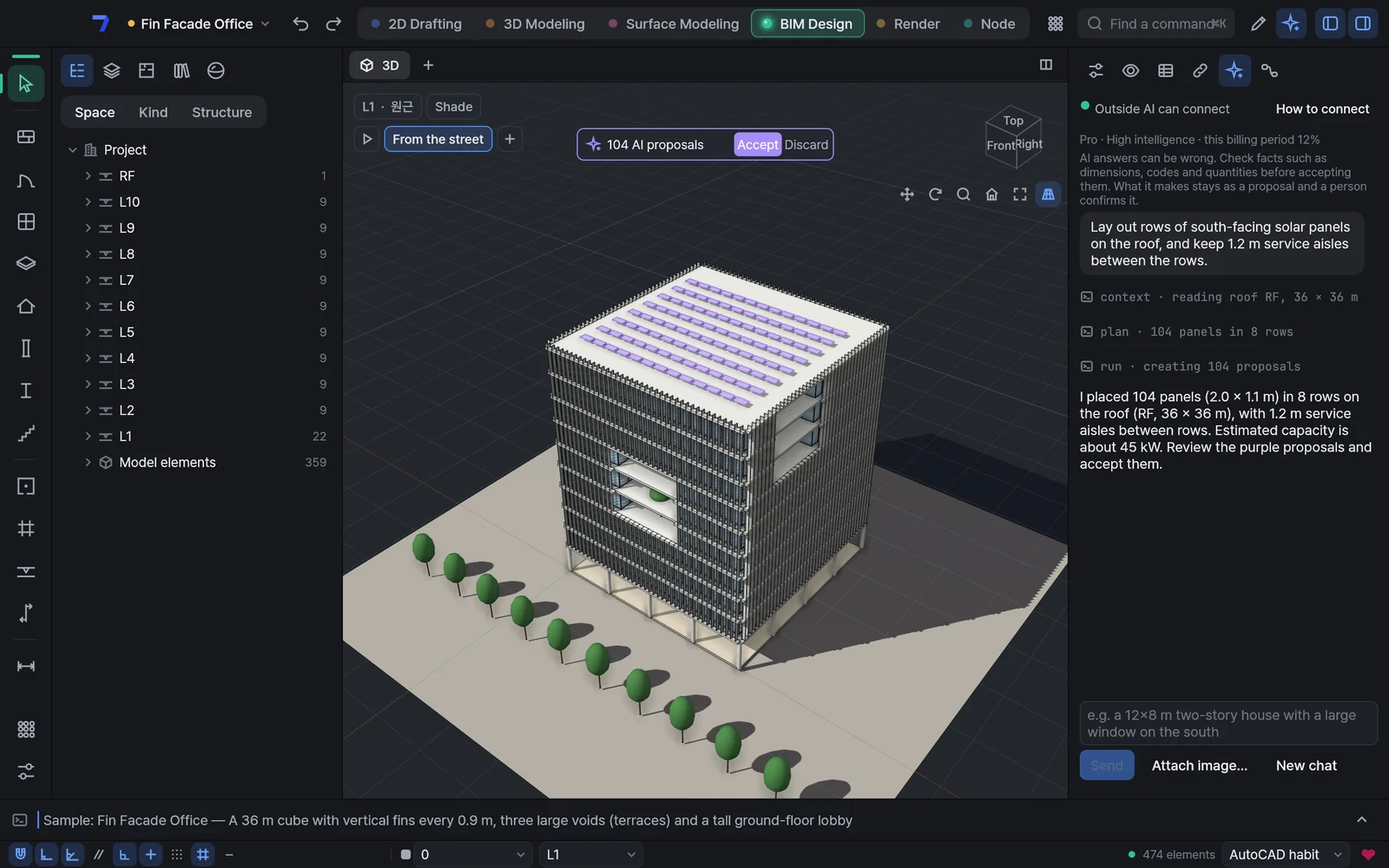
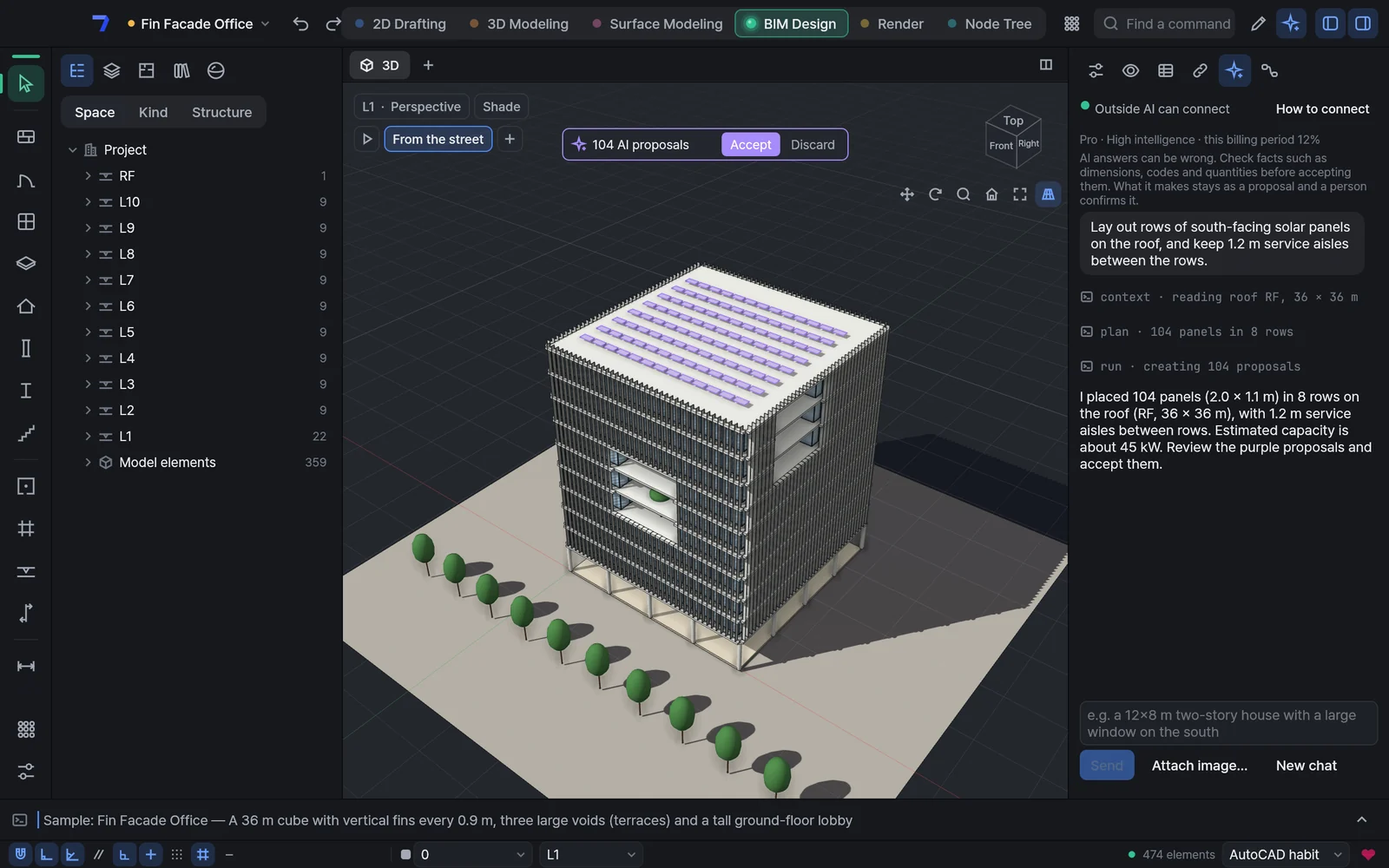
HyperSeven Office 서버 설정·홈페이지 (2026-11-11)

diff --git a/ja/cad.html b/ja/cad.html
@@ -47,7 +47,7 @@
 <main>
     <section class="phero cad">
       <div class="wrap">
-        <div class="ptitle"><img src="../assets/brand/icon-cad.svg" alt="" width="60" height="60" /><div><b>HyperSeven CAD</b><span>図面 · 3D · 曲面 · ノード · BIM</span></div><span class="tag dev"><span class="dot"></span>プレビュー 0.1.0</span></div>
+        <div class="ptitle"><img src="../assets/brand/icon-cad.svg" alt="" width="60" height="60" /><div><b>HyperSeven CAD</b><span>図面 · 3D · 曲面 · ノード · BIM</span></div><span class="tag dev"><span class="dot"></span>プレビュー 1.1.0</span></div>
         <h1>図面からBIMまで、<br />みんなのCADをひとつ<span class="blue">。</span></h1>
         <p class="lead">DWG・SKP・3DM・IFCのファイルを行き来していた作業が、ひとつのモデルでつながります。図面からマス・曲面・ノード・BIMまで、誰でも無料で。</p>
         <div class="get">
@@ -55,16 +55,16 @@
             <div class="get-win get-mac" data-os="mac">
               <a class="btn os" href="https://github.com/dongyoun/hyperseven-cad/releases/download/v0.1.0/HyperSeven-CAD-0.1.0-arm64.dmg">
                 <svg viewBox="0 0 24 24" fill="none" stroke="currentColor" stroke-width="2" stroke-linecap="round" stroke-linejoin="round" aria-hidden="true"><path d="M12 3v12" /><path d="m7 10 5 5 5-5" /><path d="M4 19h16" /></svg>
-                <span>Mac用をダウンロード<small>0.1.0 プレビュー · 73MB</small></span>
+                <span>Mac用をダウンロード<small>0.1.0 プレビュー · 77MB</small></span>
               </a>
               <a class="get-exe" href="https://github.com/dongyoun/hyperseven-cad/releases/download/v0.1.0/HyperSeven-CAD-0.1.0-x64.dmg">Intel Mac用</a>
             </div>
             <div class="get-win" data-os="win">
-              <span class="btn os disabled" aria-disabled="true">
+              <span class="btn os disabled" aria-disabled="true" data-store="https://apps.microsoft.com/detail/9N3V14L2F5MW">
                 <svg viewBox="0 0 24 24" fill="none" stroke="currentColor" stroke-width="2" stroke-linecap="round" stroke-linejoin="round" aria-hidden="true"><path d="M5 8h14l-1.2 11.2a1 1 0 0 1-1 .8H7.2a1 1 0 0 1-1-.8z" /><path d="M9 8V6.5a3 3 0 0 1 6 0V8" /></svg>
                 <span>Microsoft Store<small>審査準備中</small></span>
               </span>
-              <a class="get-exe" href="https://github.com/dongyoun/hyperseven-cad/releases/download/v0.1.0/HyperSeven-CAD-0.1.0-win-x64.zip">.zipでダウンロード · 85MB</a>
+              <a class="get-exe" href="https://github.com/dongyoun/hyperseven-cad/releases/download/v1.1.0/HyperSeven-CAD-1.1.0-win-x64.zip">.zipでダウンロード · 92MB</a>
               <small class="get-exe-note">展開してすぐ使えます。初回は「詳細情報 → 実行」</small>
             </div>
           </div>
@@ -115,15 +115,15 @@
           <h2>図面はモデルから生まれる</h2>
           <p>サンプルで見る、3D・図面シート・コマンド検索。スタート画面の「サンプルを見る」から開けます。</p>
         </div>
-        <div class="window dark"><div class="bar"><i></i><i></i><i></i></div><img src="../assets/shots/cad-3d.webp" alt="HyperSeven CADの3D画面 — 基壇の上に3 m間隔の列柱と薄い屋根スラブの美術館サンプル、左に階の一覧、右にプロパティ" loading="lazy" width="1600" height="1012" /></div>
+        <div class="window dark"><div class="bar"><i></i><i></i><i></i></div><img src="../assets/shots/cad-museum-en.webp" alt="列柱の美術館 — 基壇の上の列柱と薄い屋根スラブ、水盤と木々、日差しと影" loading="lazy" width="1600" height="1000" /></div>
         <div class="gallery" style="margin-top: 28px">
           <figure>
-            <div class="window dark"><div class="bar"><i></i><i></i><i></i></div><img src="../assets/shots/cad-plan.webp" alt="美術館サンプルのA1シート — 1階平面図・断面図・南と東の立面図" loading="lazy" width="1600" height="1012" /></div>
-            <figcaption>A1シート1枚に平面・断面・立面。モデルを直すと図面がついてきます。</figcaption>
+            <div class="window dark"><div class="bar"><i></i><i></i><i></i></div><img src="../assets/shots/cad-automation-en.webp" alt="設計自動化カード — 敷地からマス案3つ、チェック、BIM、図面セットまですべて緑で完了した画面" loading="lazy" width="1600" height="1000" /></div>
+            <figcaption>設計自動化カード：敷地の線ひとつから、マス案3つ、チェック、BIM、図面セットまで続けて実行します。</figcaption>
           </figure>
           <figure>
-            <div class="window dark"><div class="bar"><i></i><i></i><i></i></div><img src="../assets/shots/cad-palette.webp" alt="コマンド検索 — 壁に関するコマンドが英語名とショートカット付きで並ぶ" loading="lazy" width="1600" height="1012" /></div>
-            <figcaption>コマンド検索 <kbd>⌘K</kbd>。韓国語でも英語のコマンド名でも探せます。</figcaption>
+            <div class="window dark"><div class="bar"><i></i><i></i><i></i></div><img src="../assets/shots/cad-sheets-en.webp" alt="列柱の美術館のA1シート — 平面・断面・南と東の立面と図枠" loading="lazy" width="1600" height="1000" /></div>
+            <figcaption>図面セット：モデルから平面・断面・立面と図枠がすぐ出て、モデルを直すと図面もついてきます。</figcaption>
           </figure>
         </div>
         <div class="gallery" style="margin-top: 28px">
@@ -136,7 +136,7 @@
             <figcaption>ファサード断面詳細1:20。レイヤー・ハッチ・引出線・寸法。</figcaption>
           </figure>
           <figure>
-            <div class="window dark"><div class="bar"><i></i><i></i><i></i></div><img src="../assets/shots/cad-house.webp" alt="白いコンクリート壁とガラスで囲んだ中庭、薄い庇の平屋" loading="lazy" width="1600" height="1012" /></div>
+            <div class="window dark"><div class="bar"><i></i><i></i><i></i></div><img src="../assets/shots/cad-courtyard-en.webp" alt="白い壁とガラスで囲んだ中庭の住宅、芝生と木々" loading="lazy" width="1600" height="1000" /></div>
             <figcaption>中庭のある家。壁を動かすと床と屋根がついてきます。</figcaption>
           </figure>
           <figure>
@@ -170,15 +170,22 @@
     </section>
 
     <section class="sec" id="ai-cad">
-      <div class="wrap duo">
+      <div class="wrap">
         <div class="sec-head">
           <div class="kicker blue">新しい時代のCAD</div>
           <h2>AIと話が通じる、<br />新しいCAD</h2>
+          <p>描いて、建てて、言葉で直す。作図ツールはすべて無料、AIは提案で手伝います。</p>
         </div>
-        <div class="aicad">
-          <p>HyperSeven CADは、はじめからAIと一緒に使うためにつくっています。図面とモデルが壁・ドア・階といった構造をもつデータなので、AIは言葉で頼んだことを正確に理解して実行します。繰り返しの作業はAIがツールにまとめ、変更はまず見せてから人が確定します。</p>
-          <ul class="aicad-points"><li>言葉で頼む</li><li>MCPでAIエージェントとつなぐ</li><li>Pythonでツールをつくる</li></ul>
-        </div>
+        <figure class="shot-lead">
+          <div class="window dark shot-ex"><div class="bar"><i></i><i></i><i></i></div><img src="../assets/shots/cad-ai-en.webp" alt="言葉で指示すると、AIがフィン・ファサードのオフィスの屋上に太陽光パネル104枚を紫の提案として配置した場面。右のAIパネルに指示と結果の説明" loading="lazy" width="1600" height="1000" /><span class="shot-tag">サンプル場面</span></div>
+          <figcaption>言葉で指示するとAIがモデルを直します。結果は紫の提案として残り、人が承認します。</figcaption>
+        </figure>
+      </div>
+      <div class="wrap split">
+          <div class="card"><div class="kicker blue">新機能</div><h3>設計自動化カード</h3><p>敷地の線ひとつから、法規条件、マス案3つ、チェック、BIM、図面セットまで続けて実行します。AIなしで動くので無料、自分のテンプレートとして保存できます。</p></div>
+          <div class="card"><div class="kicker blue">新機能</div><h3>AIと一緒に設計</h3><p>文字・音声・赤ペンで指示すると、結果は紫の提案として残り、人が承認します。無料版でもまずプレビュー場面で確かめられます。</p></div>
+          <div class="card"><div class="kicker blue">新機能</div><h3>AIレンダー</h3><p>いまのビューの形のまま、写真のような画像をつくります。ComfyUI（このコンピューター、無料）、Stability AI・OpenAI（自分のキー）、カスタムAPIから選べます。</p></div>
+          <div class="card"><div class="kicker blue">新機能</div><h3>ノードツリー</h3><p>AIが組んだノードツリーがすぐ開き、人が続けて直せます。繰り返す形はノードとして残し、また使えます。</p></div>
       </div>
     </section>
 
@@ -202,7 +209,7 @@
         <div class="card">
           <div class="kicker blue">いま</div>
           <h3>Mac・Windows用プレビューをどうぞ</h3>
-          <p>Mac（Apple Silicon・Intel）とWindows 10・11（x64）用の0.1.0プレビューを今すぐ使えます。Windows版は展開してすぐ使えるzipです。新しい版が出るとアプリが知らせます。Linuxが続きます。</p>
+          <p>Windows 10・11（x64）用の1.1.0、Mac（Apple Silicon・Intel）用の0.1.0プレビューを今すぐ使えます。Mac用の1.1.0はAppleの公証が済みしだい公開します。Windows版は展開してすぐ使えるzipです。新しい版が出るとアプリが知らせます。Linuxが続きます。</p>
         </div>
       </div>
       <div class="wrap">

diff --git a/cad.html b/cad.html
@@ -47,7 +47,7 @@
 <main>
     <section class="phero cad">
       <div class="wrap">
-        <div class="ptitle"><img src="assets/brand/icon-cad.svg" alt="" width="60" height="60" /><div><b>HyperSeven CAD</b><span>하이퍼세븐 캐드 · 도면 · 3D · 곡면 · 노드 · BIM</span></div><span class="tag dev"><span class="dot"></span>미리 보기 0.1.0</span></div>
+        <div class="ptitle"><img src="assets/brand/icon-cad.svg" alt="" width="60" height="60" /><div><b>HyperSeven CAD</b><span>하이퍼세븐 캐드 · 도면 · 3D · 곡면 · 노드 · BIM</span></div><span class="tag dev"><span class="dot"></span>미리 보기 1.1.0</span></div>
         <h1>도면부터 BIM까지,<br />모두의 캐드 하나<span class="blue">.</span></h1>
         <p class="lead">DWG·SKP·3DM·IFC 파일을 오가던 작업이 하나의 모델로 이어집니다. 도면부터 BIM까지, 누구나 무료로.</p>
         <div class="get">
@@ -55,16 +55,16 @@
             <div class="get-win get-mac" data-os="mac">
               <a class="btn os" href="https://github.com/dongyoun/hyperseven-cad/releases/download/v0.1.0/HyperSeven-CAD-0.1.0-arm64.dmg">
                 <svg viewBox="0 0 24 24" fill="none" stroke="currentColor" stroke-width="2" stroke-linecap="round" stroke-linejoin="round" aria-hidden="true"><path d="M12 3v12" /><path d="m7 10 5 5 5-5" /><path d="M4 19h16" /></svg>
-                <span>맥용 내려받기<small>0.1.0 미리 보기 · 73MB</small></span>
+                <span>맥용 내려받기<small>0.1.0 미리 보기 · 77MB</small></span>
               </a>
               <a class="get-exe" href="https://github.com/dongyoun/hyperseven-cad/releases/download/v0.1.0/HyperSeven-CAD-0.1.0-x64.dmg">인텔 맥용</a>
             </div>
             <div class="get-win" data-os="win">
-              <span class="btn os disabled" aria-disabled="true">
+              <span class="btn os disabled" aria-disabled="true" data-store="https://apps.microsoft.com/detail/9N3V14L2F5MW">
                 <svg viewBox="0 0 24 24" fill="none" stroke="currentColor" stroke-width="2" stroke-linecap="round" stroke-linejoin="round" aria-hidden="true"><path d="M5 8h14l-1.2 11.2a1 1 0 0 1-1 .8H7.2a1 1 0 0 1-1-.8z" /><path d="M9 8V6.5a3 3 0 0 1 6 0V8" /></svg>
                 <span>Microsoft Store<small>심사 준비 중</small></span>
               </span>
-              <a class="get-exe" href="https://github.com/dongyoun/hyperseven-cad/releases/download/v0.1.0/HyperSeven-CAD-0.1.0-win-x64.zip">zip으로 내려받기 · 85MB</a>
+              <a class="get-exe" href="https://github.com/dongyoun/hyperseven-cad/releases/download/v1.1.0/HyperSeven-CAD-1.1.0-win-x64.zip">zip으로 내려받기 · 92MB</a>
               <small class="get-exe-note">풀어서 바로 씁니다. 처음 열 때 ‘추가 정보 → 실행’</small>
             </div>
           </div>
@@ -115,15 +115,15 @@
           <h2>도면은 모델에서 나옵니다</h2>
           <p>예제로 본 3D, 도면 시트, 명령 찾기. 시작 화면의 ‘예제 둘러보기’에서 열 수 있습니다.</p>
         </div>
-        <div class="window dark"><div class="bar"><i></i><i></i><i></i></div><img src="assets/shots/cad-3d.webp" alt="하이퍼세븐 캐드의 3D 화면 — 기단 위 3 m 간격 열주와 얇은 지붕 판의 미술관 예제, 왼쪽에 층 목록, 오른쪽에 속성 칸" loading="lazy" width="1600" height="1012" /></div>
+        <div class="window dark"><div class="bar"><i></i><i></i><i></i></div><img src="assets/shots/cad-museum.webp" alt="열주 미술관 — 기단 위 열주와 얇은 지붕 판, 수경과 나무, 햇빛과 그림자" loading="lazy" width="1600" height="1000" /></div>
         <div class="gallery" style="margin-top: 28px">
           <figure>
-            <div class="window dark"><div class="bar"><i></i><i></i><i></i></div><img src="assets/shots/cad-plan.webp" alt="미술관 예제의 A1 시트 — 1층 평면, 단면, 남측·동측 입면" loading="lazy" width="1600" height="1012" /></div>
-            <figcaption>A1 시트 한 장에 평면·단면·입면. 모델을 고치면 도면이 따라옵니다.</figcaption>
+            <div class="window dark"><div class="bar"><i></i><i></i><i></i></div><img src="assets/shots/cad-automation.webp" alt="설계 자동화 카드 — 대지에서 매스 대안 셋, 점검, BIM, 도면 세트까지 모두 초록으로 끝난 화면" loading="lazy" width="1600" height="1000" /></div>
+            <figcaption>설계 자동화 카드: 대지 선 하나에서 매스 대안 셋, 점검, BIM, 도면 세트까지 이어서 실행합니다.</figcaption>
           </figure>
           <figure>
-            <div class="window dark"><div class="bar"><i></i><i></i><i></i></div><img src="assets/shots/cad-palette.webp" alt="명령 찾기 창 — '벽'을 치면 벽, 벽 윤곽, 벽 나누기 같은 명령이 영문 이름·단축키와 함께 나온다" loading="lazy" width="1600" height="1012" /></div>
-            <figcaption>명령 찾기 <kbd>⌘K</kbd>. 한글로, 초성으로, 영문 명령 이름으로 찾습니다.</figcaption>
+            <div class="window dark"><div class="bar"><i></i><i></i><i></i></div><img src="assets/shots/cad-sheets.webp" alt="열주 미술관의 A1 시트 — 평면·단면·남측·동측 입면과 도곽" loading="lazy" width="1600" height="1000" /></div>
+            <figcaption>도면 세트: 모델에서 평면·단면·입면과 도곽이 바로 나오고, 모델을 고치면 도면이 따라옵니다.</figcaption>
           </figure>
         </div>
         <div class="gallery" style="margin-top: 28px">
@@ -136,7 +136,7 @@
             <figcaption>파사드 단면 상세 1:20. 레이어·해치·지시선·치수.</figcaption>
           </figure>
           <figure>
-            <div class="window dark"><div class="bar"><i></i><i></i><i></i></div><img src="assets/shots/cad-house.webp" alt="흰 콘크리트 벽과 유리로 둘러싼 중정, 얇은 처마의 단층 주택" loading="lazy" width="1600" height="1012" /></div>
+            <div class="window dark"><div class="bar"><i></i><i></i><i></i></div><img src="assets/shots/cad-courtyard.webp" alt="흰 벽과 유리로 둘러싼 중정 주택, 잔디와 나무" loading="lazy" width="1600" height="1000" /></div>
             <figcaption>중정 주택. 벽을 옮기면 바닥과 지붕이 따라옵니다.</figcaption>
           </figure>
           <figure>
@@ -170,15 +170,22 @@
     </section>
 
     <section class="sec" id="ai-cad">
-      <div class="wrap duo">
+      <div class="wrap">
         <div class="sec-head">
           <div class="kicker blue">새로운 시대의 캐드</div>
           <h2>AI와 말이 통하는<br />새로운 캐드</h2>
+          <p>그리고, 짓고, 말로 고칩니다. 저작 도구는 모두 무료이고, AI는 제안으로 돕습니다.</p>
         </div>
-        <div class="aicad">
-          <p>하이퍼세븐 캐드는 처음부터 AI와 함께 쓰도록 만들었습니다. 도면과 모델이 벽·문·층 같은 구조를 가진 데이터라서, AI가 말로 시킨 일을 정확히 알아듣고 해냅니다. 반복되는 일은 AI가 도구로 만들어 주고, 바뀐 곳은 먼저 보여 준 뒤 사람이 확정합니다.</p>
-          <ul class="aicad-points"><li>말로 시키기</li><li>MCP로 AI 에이전트 연결</li><li>파이썬으로 도구 만들기</li></ul>
-        </div>
+        <figure class="shot-lead">
+          <div class="window dark shot-ex"><div class="bar"><i></i><i></i><i></i></div><img src="assets/shots/cad-ai-ko.webp" alt="말로 지시하자 AI가 핀 파사드 오피스 옥상에 태양광 패널 104장을 보라색 제안으로 놓은 장면. 오른쪽 AI 창에 지시와 결과 설명" loading="lazy" width="1600" height="1000" /><span class="shot-tag">예시 장면</span></div>
+          <figcaption>말로 지시하면 AI가 모델을 고칩니다. 결과는 보라색 제안으로 남고, 사람이 수락합니다.</figcaption>
+        </figure>
+      </div>
+      <div class="wrap split">
+          <div class="card"><div class="kicker blue">새 기능</div><h3>설계 자동화 카드</h3><p>대지 선 하나에서 법규 조건, 매스 대안 셋, 점검, BIM, 도면 세트까지 이어서 실행합니다. AI 없이 돌아가 무료이고, 내 템플릿으로 저장합니다.</p></div>
+          <div class="card"><div class="kicker blue">새 기능</div><h3>AI와 함께 설계</h3><p>글·말·빨간 펜으로 지시하면 결과가 보라색 제안으로 남고, 사람이 수락합니다. 무료판에서도 미리 보기 장면으로 먼저 봅니다.</p></div>
+          <div class="card"><div class="kicker blue">새 기능</div><h3>AI 렌더</h3><p>지금 뷰의 형태 그대로 사진 같은 그림을 만듭니다. ComfyUI(이 컴퓨터, 무료), Stability AI·OpenAI(내 키), 사용자 정의 API 중에서 고릅니다.</p></div>
+          <div class="card"><div class="kicker blue">새 기능</div><h3>노드 트리</h3><p>AI가 짠 노드 트리가 바로 열리고, 사람이 이어서 고칩니다. 반복되는 형태는 노드로 남겨 다시 씁니다.</p></div>
       </div>
     </section>
 
@@ -202,7 +209,7 @@
         <div class="card">
           <div class="kicker blue">지금</div>
           <h3>맥·윈도우 미리 보기를 받으세요</h3>
-          <p>맥(애플 실리콘·인텔)과 윈도우 10·11(x64)용 0.1.0 미리 보기를 지금 받습니다. 윈도우판은 풀어서 바로 쓰는 zip 입니다. 새 판이 나오면 앱이 알려 줍니다. 리눅스가 뒤를 잇습니다.</p>
+          <p>윈도우 10·11(x64)용 1.1.0, 맥(애플 실리콘·인텔)용 0.1.0 미리 보기를 지금 받습니다. 맥용 1.1.0은 애플 공증을 마치는 대로 올립니다. 윈도우판은 풀어서 바로 쓰는 zip 입니다. 새 판이 나오면 앱이 알려 줍니다. 리눅스가 뒤를 잇습니다.</p>
         </div>
       </div>
       <div class="wrap">

diff --git a/en/cad.html b/en/cad.html
@@ -47,7 +47,7 @@
 <main>
     <section class="phero cad">
       <div class="wrap">
-        <div class="ptitle"><img src="../assets/brand/icon-cad.svg" alt="" width="60" height="60" /><div><b>HyperSeven CAD</b><span>Drawings · 3D · Surfaces · Nodes · BIM</span></div><span class="tag dev"><span class="dot"></span>Preview 0.1.0</span></div>
+        <div class="ptitle"><img src="../assets/brand/icon-cad.svg" alt="" width="60" height="60" /><div><b>HyperSeven CAD</b><span>Drawings · 3D · Surfaces · Nodes · BIM</span></div><span class="tag dev"><span class="dot"></span>Preview 1.1.0</span></div>
         <h1>From drawings to BIM,<br />one CAD for everyone<span class="blue">.</span></h1>
         <p class="lead">Work that bounced between DWG, SKP, 3DM and IFC files now flows through one model. From drawings to masses, surfaces, nodes and BIM, free for everyone.</p>
         <div class="get">
@@ -55,16 +55,16 @@
             <div class="get-win get-mac" data-os="mac">
               <a class="btn os" href="https://github.com/dongyoun/hyperseven-cad/releases/download/v0.1.0/HyperSeven-CAD-0.1.0-arm64.dmg">
                 <svg viewBox="0 0 24 24" fill="none" stroke="currentColor" stroke-width="2" stroke-linecap="round" stroke-linejoin="round" aria-hidden="true"><path d="M12 3v12" /><path d="m7 10 5 5 5-5" /><path d="M4 19h16" /></svg>
-                <span>Download for Mac<small>0.1.0 preview · 73MB</small></span>
+                <span>Download for Mac<small>0.1.0 preview · 77MB</small></span>
               </a>
               <a class="get-exe" href="https://github.com/dongyoun/hyperseven-cad/releases/download/v0.1.0/HyperSeven-CAD-0.1.0-x64.dmg">For Intel Macs</a>
             </div>
             <div class="get-win" data-os="win">
-              <span class="btn os disabled" aria-disabled="true">
+              <span class="btn os disabled" aria-disabled="true" data-store="https://apps.microsoft.com/detail/9N3V14L2F5MW">
                 <svg viewBox="0 0 24 24" fill="none" stroke="currentColor" stroke-width="2" stroke-linecap="round" stroke-linejoin="round" aria-hidden="true"><path d="M5 8h14l-1.2 11.2a1 1 0 0 1-1 .8H7.2a1 1 0 0 1-1-.8z" /><path d="M9 8V6.5a3 3 0 0 1 6 0V8" /></svg>
                 <span>Microsoft Store<small>Coming soon</small></span>
               </span>
-              <a class="get-exe" href="https://github.com/dongyoun/hyperseven-cad/releases/download/v0.1.0/HyperSeven-CAD-0.1.0-win-x64.zip">Download .zip · 85MB</a>
+              <a class="get-exe" href="https://github.com/dongyoun/hyperseven-cad/releases/download/v1.1.0/HyperSeven-CAD-1.1.0-win-x64.zip">Download .zip · 92MB</a>
               <small class="get-exe-note">Unpack and run. On first launch choose “More info → Run anyway”</small>
             </div>
           </div>
@@ -115,15 +115,15 @@
           <h2>Drawings come from the model</h2>
           <p>Samples seen in 3D, on a drawing sheet and through command search. Open them from “Browse samples” on the start screen.</p>
         </div>
-        <div class="window dark"><div class="bar"><i></i><i></i><i></i></div><img src="../assets/shots/cad-3d.webp" alt="HyperSeven CAD in 3D — a sample museum with a 3 m colonnade on a plinth under a thin roof slab, levels on the left and properties on the right" loading="lazy" width="1600" height="1012" /></div>
+        <div class="window dark"><div class="bar"><i></i><i></i><i></i></div><img src="../assets/shots/cad-museum-en.webp" alt="Colonnade museum — columns on a plinth under a thin roof slab, a reflecting pool and trees in sunlight" loading="lazy" width="1600" height="1000" /></div>
         <div class="gallery" style="margin-top: 28px">
           <figure>
-            <div class="window dark"><div class="bar"><i></i><i></i><i></i></div><img src="../assets/shots/cad-plan.webp" alt="A1 sheet of the museum sample — ground floor plan, section, south and east elevations" loading="lazy" width="1600" height="1012" /></div>
-            <figcaption>Plan, section and elevations on one A1 sheet. Change the model and the drawings follow.</figcaption>
+            <div class="window dark"><div class="bar"><i></i><i></i><i></i></div><img src="../assets/shots/cad-automation-en.webp" alt="Design automation cards — site, three massing options, checks, BIM and drawing set, all finished in green" loading="lazy" width="1600" height="1000" /></div>
+            <figcaption>Design automation cards: from one site outline to three massing options, checks, BIM and a drawing set.</figcaption>
           </figure>
           <figure>
-            <div class="window dark"><div class="bar"><i></i><i></i><i></i></div><img src="../assets/shots/cad-palette.webp" alt="Command search listing wall commands with their English names and shortcuts" loading="lazy" width="1600" height="1012" /></div>
-            <figcaption>Command search <kbd>⌘K</kbd>. Find commands in Korean, by initial consonants or by their English names.</figcaption>
+            <div class="window dark"><div class="bar"><i></i><i></i><i></i></div><img src="../assets/shots/cad-sheets-en.webp" alt="A1 sheet of the colonnade museum — plan, section, south and east elevations with a title block" loading="lazy" width="1600" height="1000" /></div>
+            <figcaption>Drawing sets: plans, sections, elevations and title blocks come straight from the model and follow every change.</figcaption>
           </figure>
         </div>
         <div class="gallery" style="margin-top: 28px">
@@ -136,7 +136,7 @@
             <figcaption>Facade section detail at 1:20 with layers, hatches, leaders and dimensions.</figcaption>
           </figure>
           <figure>
-            <div class="window dark"><div class="bar"><i></i><i></i><i></i></div><img src="../assets/shots/cad-house.webp" alt="A single-storey house with white concrete walls around a glazed courtyard and a thin eave" loading="lazy" width="1600" height="1012" /></div>
+            <div class="window dark"><div class="bar"><i></i><i></i><i></i></div><img src="../assets/shots/cad-courtyard-en.webp" alt="A courtyard house wrapped in white walls and glass, with lawn and trees" loading="lazy" width="1600" height="1000" /></div>
             <figcaption>Courtyard house. Move a wall and the floor and roof follow.</figcaption>
           </figure>
           <figure>
@@ -170,15 +170,22 @@
     </section>
 
     <section class="sec" id="ai-cad">
-      <div class="wrap duo">
+      <div class="wrap">
         <div class="sec-head">
           <div class="kicker blue">CAD for a new era</div>
           <h2>The CAD that<br />speaks AI</h2>
+          <p>Draw, build, and edit by talking. Every authoring tool is free; AI helps through proposals you accept.</p>
         </div>
-        <div class="aicad">
-          <p>HyperSeven CAD is built from the ground up to work with AI. Because drawings and models are structured data — walls, doors, levels — AI understands what you ask in plain words and does it precisely. Repetitive work becomes a tool AI builds for you, and every change is shown first for you to confirm.</p>
-          <ul class="aicad-points"><li>Ask in plain words</li><li>Connect AI agents via MCP</li><li>Build tools with Python</li></ul>
-        </div>
+        <figure class="shot-lead">
+          <div class="window dark shot-ex"><div class="bar"><i></i><i></i><i></i></div><img src="../assets/shots/cad-ai-en.webp" alt="Asked in plain words, the AI lays out 104 rooftop solar panels on the fin-facade office as purple proposals; the AI pane on the right shows the request and result" loading="lazy" width="1600" height="1000" /><span class="shot-tag">Example scene</span></div>
+          <figcaption>Tell the AI what you want; it edits the model and leaves purple proposals for you to accept.</figcaption>
+        </figure>
+      </div>
+      <div class="wrap split">
+          <div class="card"><div class="kicker blue">New</div><h3>Design automation cards</h3><p>From one site outline to zoning limits, three massing options, checks, BIM and a drawing set — in one run. Runs without AI, so it is free, and saves as your own template.</p></div>
+          <div class="card"><div class="kicker blue">New</div><h3>Design with AI</h3><p>Instruct by text, voice or red pen; results stay as purple proposals until you accept them. The free version shows a preview scene first.</p></div>
+          <div class="card"><div class="kicker blue">New</div><h3>AI render</h3><p>Turns the current view into a photo-like image that keeps its form. Choose ComfyUI (on this computer, free), Stability AI or OpenAI (your key), or a custom API.</p></div>
+          <div class="card"><div class="kicker blue">New</div><h3>Node trees</h3><p>Node trees the AI builds open right away for you to keep editing. Repeating forms stay as nodes to reuse.</p></div>
       </div>
     </section>
 
@@ -202,7 +209,7 @@
         <div class="card">
           <div class="kicker blue">Now</div>
           <h3>Get the Mac and Windows preview</h3>
-          <p>The 0.1.0 preview for Macs (Apple Silicon and Intel) and Windows 10/11 (x64) is available now — on Windows it is a zip you unpack and run. The app tells you when a new version is out. Linux will follow.</p>
+          <p>Windows 10/11 (x64) 1.1.0 and Mac (Apple Silicon and Intel) 0.1.0 previews are available now. The Mac 1.1.0 follows as soon as Apple notarization is done. On Windows it is a zip you unpack and run. The app tells you when a new version is out. Linux will follow.</p>
         </div>
       </div>
       <div class="wrap">

diff --git a/ja/index.html b/ja/index.html
@@ -68,7 +68,7 @@
             <div class="tags"><span class="tag">無料</span><span class="tag dev"><span class="dot"></span>開発中</span></div>
             <p class="mdesc">DWG・SKP・3DM・RVT・IFCのファイルを、ひとつのモデルとして開きます。図面から3D・曲面・ノード・BIMまで、ひと続きの流れで。</p>
             <span class="mgo">CADをひと足先に見る <span aria-hidden="true">→</span></span>
-            <div class="mshot"><div class="window dark"><div class="bar"><i></i><i></i><i></i></div><img src="../assets/shots/cad-3d.webp" alt="HyperSeven CADの3D画面 — 切妻屋根のれんが造りの家のサンプル" width="1600" height="1012" /></div></div>
+            <div class="mshot"><div class="window dark shot-ex"><div class="bar"><i></i><i></i><i></i></div><img src="../assets/shots/cad-ai-en.webp" alt="言葉で指示すると、AIがフィン・ファサードのオフィスの屋上に太陽光パネル104枚を紫の提案として配置した場面。右のAIパネルに指示と結果の説明" width="1600" height="1000" /><span class="shot-tag">サンプル場面</span></div></div>
           </a>
         </div>
       </div>

diff --git a/index.html b/index.html
@@ -68,7 +68,7 @@
             <div class="tags"><span class="tag">무료</span><span class="tag dev"><span class="dot"></span>개발 중</span></div>
             <p class="mdesc">DWG·SKP·3DM·RVT·IFC 파일을 하나의 모델로 엽니다. 도면부터 3D·곡면·노드·BIM까지 한 흐름으로 이어집니다.</p>
             <span class="mgo">캐드 미리 보기 <span aria-hidden="true">→</span></span>
-            <div class="mshot"><div class="window dark"><div class="bar"><i></i><i></i><i></i></div><img src="assets/shots/cad-3d.webp" alt="하이퍼세븐 캐드의 3D 화면 — 박공지붕 벽돌집 예제" width="1600" height="1012" /></div></div>
+            <div class="mshot"><div class="window dark shot-ex"><div class="bar"><i></i><i></i><i></i></div><img src="assets/shots/cad-ai-ko.webp" alt="말로 지시하자 AI가 핀 파사드 오피스 옥상에 태양광 패널 104장을 보라색 제안으로 놓은 장면. 오른쪽 AI 창에 지시와 결과 설명" width="1600" height="1000" /><span class="shot-tag">예시 장면</span></div></div>
           </a>
         </div>
       </div>

diff --git a/en/index.html b/en/index.html
@@ -68,7 +68,7 @@
             <div class="tags"><span class="tag">Free</span><span class="tag dev"><span class="dot"></span>In development</span></div>
             <p class="mdesc">Opens DWG, SKP, 3DM, RVT and IFC files as one model. Drawings, 3D, surfaces, nodes and BIM in a single flow.</p>
             <span class="mgo">Preview CAD <span aria-hidden="true">→</span></span>
-            <div class="mshot"><div class="window dark"><div class="bar"><i></i><i></i><i></i></div><img src="../assets/shots/cad-3d.webp" alt="HyperSeven CAD in 3D — a sample gable-roofed brick house" width="1600" height="1012" /></div></div>
+            <div class="mshot"><div class="window dark shot-ex"><div class="bar"><i></i><i></i><i></i></div><img src="../assets/shots/cad-ai-en.webp" alt="Asked in plain words, the AI lays out 104 rooftop solar panels on the fin-facade office as purple proposals; the AI pane on the right shows the request and result" width="1600" height="1000" /><span class="shot-tag">Example scene</span></div></div>
           </a>
         </div>
       </div>
